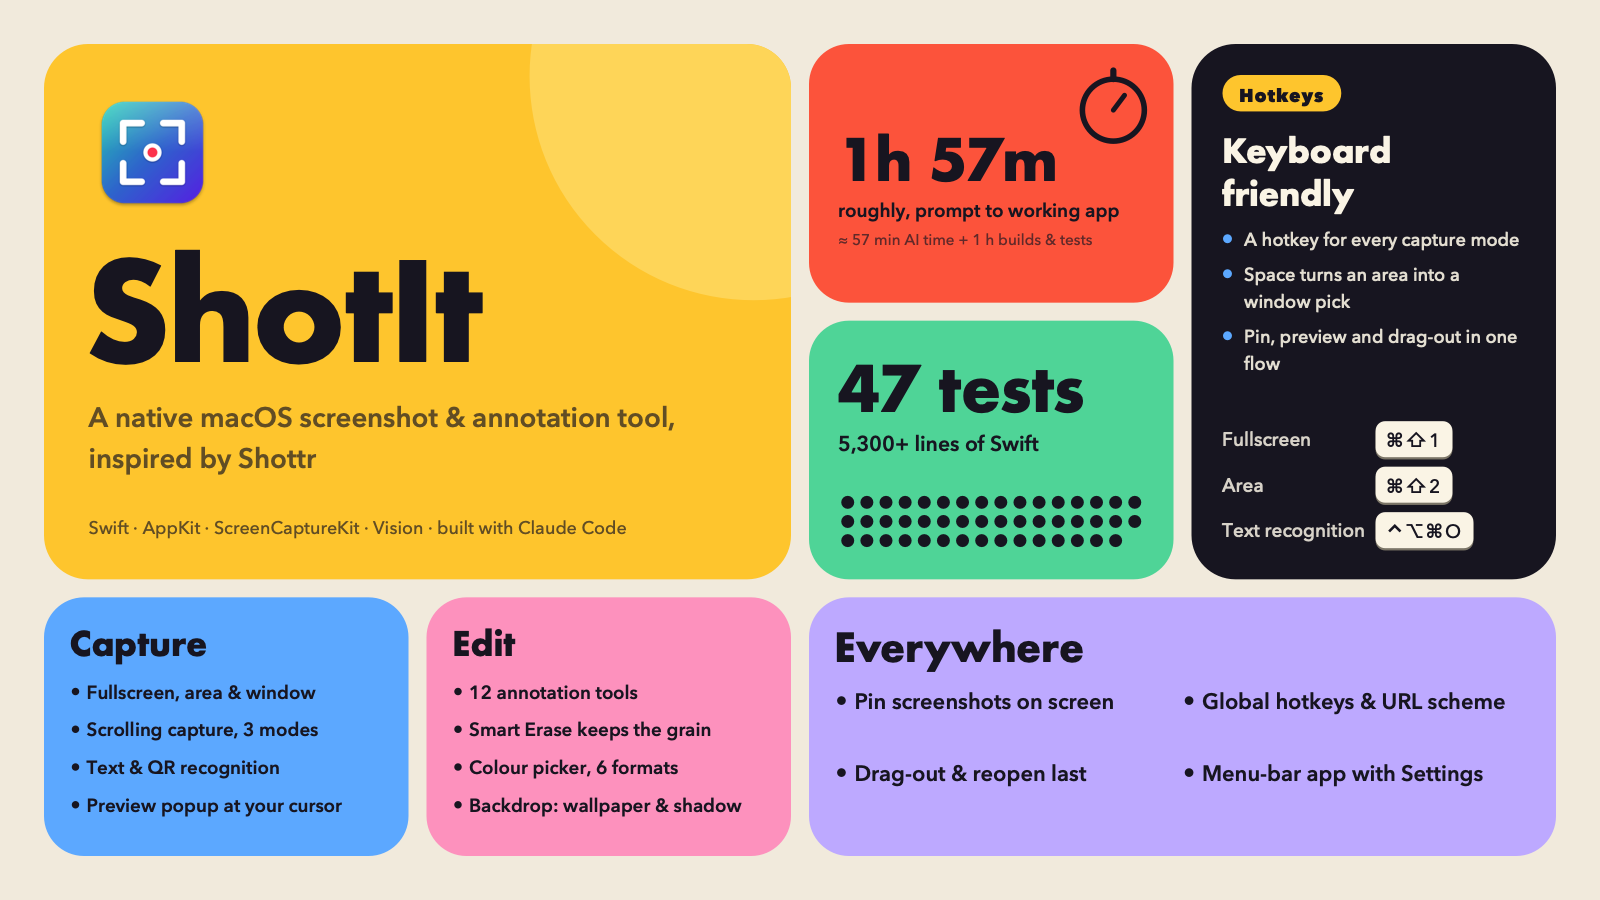
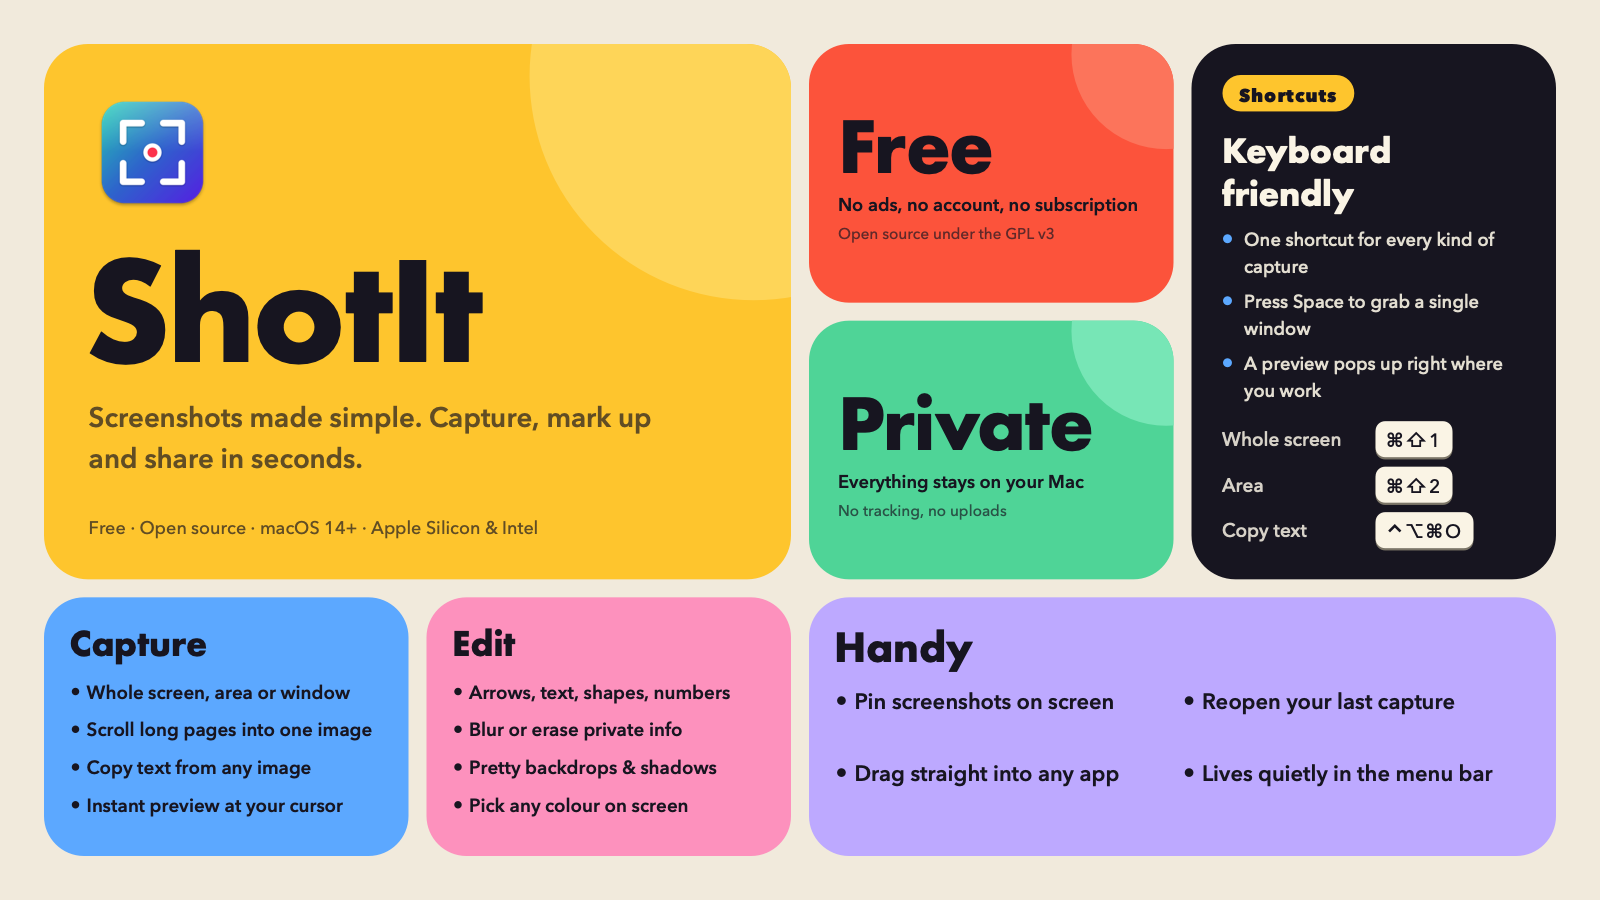
Rewrite README and promo cards for end users

diff --git a/tools/make-card.swift b/tools/make-card.swift
@@ -2,24 +2,24 @@
 // Usage: swiftc tools/make-card.swift -o build/make-card && build/make-card promo Sources/ShotIt/Assets.xcassets/AppIcon.appiconset/icon_512x512@2x.png
 import AppKit
 
-// Edit the content here (the numbers come from /cost and the repo).
-let duration = "1h 57m"
-let durationNote = "≈ 57 min AI time + 1 h builds & tests"
-let testsCount = "47 tests"
-let linesNote = "5,300+ lines of Swift"
-let tagline = "A native macOS screenshot & annotation tool, inspired by Shottr"
-let stack = "Swift · AppKit · ScreenCaptureKit · Vision · built with Claude Code"
+// Edit the content here.
+let tagline = "Screenshots made simple. Capture, mark up and share in seconds."
+let stack = "Free · Open source · macOS 14+ · Apple Silicon & Intel"
+
+// (headline, subline, note) for the two highlight tiles.
+let freeFact = ("Free", "No ads, no account, no subscription", "Open source under the GPL v3")
+let privateFact = ("Private", "Everything stays on your Mac", "No tracking, no uploads")
 
 let keyBullets = [
-    "A hotkey for every capture mode",
-    "Space turns an area into a window pick",
-    "Pin, preview and drag-out in one flow",
+    "One shortcut for every kind of capture",
+    "Press Space to grab a single window",
+    "A preview pops up right where you work",
 ]
-let hotkeys: [(String, String)] = [("Fullscreen", "⌘⇧1"), ("Area", "⌘⇧2"), ("Text recognition", "⌃⌥⌘O")]
+let hotkeys: [(String, String)] = [("Whole screen", "⌘⇧1"), ("Area", "⌘⇧2"), ("Copy text", "⌃⌥⌘O")]
 
-let capture = ["Fullscreen, area & window", "Scrolling capture, 3 modes", "Text & QR recognition", "Preview popup at your cursor"]
-let edit = ["12 annotation tools", "Smart Erase keeps the grain", "Colour picker, 6 formats", "Backdrop: wallpaper & shadow"]
-let everywhere = ["Pin screenshots on screen", "Drag-out & reopen last", "Global hotkeys & URL scheme", "Menu-bar app with Settings"]
+let capture = ["Whole screen, area or window", "Scroll long pages into one image", "Copy text from any image", "Instant preview at your cursor"]
+let edit = ["Arrows, text, shapes, numbers", "Blur or erase private info", "Pretty backdrops & shadows", "Pick any colour on screen"]
+let everywhere = ["Pin screenshots on screen", "Drag straight into any app", "Reopen your last capture", "Lives quietly in the menu bar"]
 
 // MARK: - Palette (warm neutrals, tinted; no pure black or white)
 
@@ -97,35 +97,17 @@ func heroTile(_ r: CGRect) {
     text(stack, in: CGRect(x: r.minX + pad, y: r.maxY - pad - r.width * 0.026, width: r.width - 2 * pad, height: 60), font: body(r.width * 0.024), color: muted(on: sun))
 }
 
-func timeTile(_ r: CGRect) {
-    fillTile(r, tomato, radius: 40)
-    let pad = r.width * 0.08
-    // Stopwatch.
-    let sw = r.width * 0.17, c = CGPoint(x: r.maxX - pad - sw / 2, y: r.minY + pad + sw / 2 + 6)
-    ink.setStroke()
-    let ring = NSBezierPath(ovalIn: CGRect(x: c.x - sw / 2, y: c.y - sw / 2, width: sw, height: sw)); ring.lineWidth = sw * 0.09; ring.stroke()
-    let hand = NSBezierPath(); hand.move(to: c); hand.line(to: CGPoint(x: c.x + sw * 0.18, y: c.y - sw * 0.24)); hand.lineWidth = sw * 0.08; hand.lineCapStyle = .round; hand.stroke()
-    let knob = NSBezierPath(); knob.move(to: CGPoint(x: c.x, y: c.y - sw / 2)); knob.line(to: CGPoint(x: c.x, y: c.y - sw / 2 - sw * 0.14)); knob.lineWidth = sw * 0.1; knob.lineCapStyle = .round; knob.stroke()
-    let bigSize = r.width * 0.155
-    let h = text(duration, in: CGRect(x: r.minX + pad, y: r.minY + r.height * 0.30, width: r.width - 2 * pad, height: 200), font: display(bigSize), color: ink, kern: -bigSize * 0.02)
-    let h2 = text("roughly, prompt to working app", in: CGRect(x: r.minX + pad, y: r.minY + r.height * 0.30 + h + 2, width: r.width - 2 * pad, height: 100), font: demi(r.width * 0.052), color: ink)
-    text(durationNote, in: CGRect(x: r.minX + pad, y: r.minY + r.height * 0.30 + h + h2 + 8, width: r.width - 2 * pad, height: 100), font: body(r.width * 0.042), color: muted(on: tomato))
-}
-
-func testsTile(_ r: CGRect) {
-    fillTile(r, mint, radius: 40)
-    let pad = r.width * 0.08
-    let bigSize = r.width * 0.17
-    let h = text(testsCount, in: CGRect(x: r.minX + pad, y: r.minY + pad - 2, width: r.width - 2 * pad, height: 200), font: display(bigSize), color: ink, kern: -bigSize * 0.02)
-    text(linesNote, in: CGRect(x: r.minX + pad, y: r.minY + pad + h, width: r.width - 2 * pad, height: 100), font: demi(r.width * 0.058), color: ink)
-    // One dot per test, all passing.
-    let cols = 16, rows = 3
-    let gap = (r.width - 2 * pad) / CGFloat(cols)
-    let rad = gap * 0.34
-    let top = r.maxY - pad - CGFloat(rows) * gap + gap / 2
-    for i in 0..<47 {
-        dot(CGPoint(x: r.minX + pad + gap * (CGFloat(i % cols) + 0.5), y: top + gap * CGFloat(i / cols)), rad, ink)
+func factTile(_ r: CGRect, color: NSColor, fact: (String, String, String), circle: NSColor) {
+    fillTile(r, color, radius: 40)
+    clipToTile(r, radius: 40) {  // soft circle peeking from the corner
+        dot(CGPoint(x: r.maxX - r.width * 0.02, y: r.minY + r.height * 0.04), r.width * 0.26, circle)
     }
+    let pad = r.width * 0.08
+    let bigSize = r.width * 0.19
+    let top = r.minY + r.height * 0.22
+    let h = text(fact.0, in: CGRect(x: r.minX + pad, y: top, width: r.width - 2 * pad, height: 200), font: display(bigSize), color: ink, kern: -bigSize * 0.02)
+    let h2 = text(fact.1, in: CGRect(x: r.minX + pad, y: top + h + 2, width: r.width - 2 * pad, height: 100), font: demi(r.width * 0.05), color: ink)
+    text(fact.2, in: CGRect(x: r.minX + pad, y: top + h + h2 + 8, width: r.width - 2 * pad, height: 100), font: body(r.width * 0.042), color: muted(on: color))
 }
 
 func hotkeyTile(_ r: CGRect, wide: Bool) {
@@ -134,7 +116,7 @@ func hotkeyTile(_ r: CGRect, wide: Bool) {
     let leftW = wide ? r.width * 0.56 : r.width - 2 * pad
     // Pill.
     let pillH: CGFloat = wide ? 32 : r.width * 0.1
-    let pillText = "Hotkeys"
+    let pillText = "Shortcuts"
     let pf = heavy(pillH * 0.5)
     let pw = ceil((pillText as NSString).size(withAttributes: [.font: pf, .kern: 1]).width) + pillH * 0.9
     fillTile(CGRect(x: r.minX + pad, y: r.minY + pad, width: pw, height: pillH), sun, radius: pillH / 2)
@@ -148,12 +130,12 @@ func hotkeyTile(_ r: CGRect, wide: Bool) {
         dot(CGPoint(x: r.minX + pad + 5, y: y + bs * 0.62), 4.5, sky)
         y += text(b, in: CGRect(x: r.minX + pad + 22, y: y, width: leftW - 22, height: 300), font: body(bs), color: cream.withAlphaComponent(0.9)) + (wide ? 5 : 10)
     }
-    // Recovered hotkeys as keycaps.
+    // Default shortcuts as keycaps.
     let ks = wide ? r.height * 0.09 : r.width * 0.052
     if wide {
         var ky = r.minY + pad + 4
         let kx = r.minX + r.width * 0.62
-        text("Default hotkeys", in: CGRect(x: kx, y: ky, width: r.width * 0.34, height: 40), font: demi(ks * 0.95), color: sun)
+        text("Default shortcuts", in: CGRect(x: kx, y: ky, width: r.width * 0.34, height: 40), font: demi(ks * 0.95), color: sun)
         ky += ks * 2.1
         for (label, keys) in hotkeys {
             text(label, in: CGRect(x: kx, y: ky + ks * 0.3, width: r.width * 0.17, height: 40), font: body(ks), color: cream.withAlphaComponent(0.85))
@@ -216,22 +198,22 @@ func cell(_ c: Int, _ r: Int, _ cs: Int, _ rs: Int, margin m: CGFloat, gap g: CG
 render(name: "shotit-card-landscape.png", w: 1600, h: 900) { w, h in
     func c(_ a: Int, _ b: Int, _ cs: Int = 1, _ rs: Int = 1) -> CGRect { cell(a, b, cs, rs, margin: 44, gap: 18, cols: 4, rows: 3, w: w, h: h) }
     heroTile(c(0, 0, 2, 2))
-    timeTile(c(2, 0))
+    factTile(c(2, 0), color: tomato, fact: freeFact, circle: rgb(0xFF8A6E))
     hotkeyTile(c(3, 0, 1, 2), wide: false)
-    testsTile(c(2, 1))
+    factTile(c(2, 1), color: mint, fact: privateFact, circle: rgb(0x86E8C3))
     listTile(c(0, 2), title: "Capture", items: capture, color: sky)
     listTile(c(1, 2), title: "Edit", items: edit, color: pink)
-    listTile(c(2, 2, 2, 1), title: "Everywhere", items: everywhere, color: lilac, columns: 2)
+    listTile(c(2, 2, 2, 1), title: "Handy", items: everywhere, color: lilac, columns: 2)
 }
 
 // 1:1 (Instagram, feeds)
 render(name: "shotit-card-square.png", w: 1080, h: 1080) { w, h in
     func c(_ a: Int, _ b: Int, _ cs: Int = 1, _ rs: Int = 1) -> CGRect { cell(a, b, cs, rs, margin: 40, gap: 16, cols: 3, rows: 4, w: w, h: h) }
     heroTile(c(0, 0, 2, 2))
-    timeTile(c(2, 0))
-    testsTile(c(2, 1))
+    factTile(c(2, 0), color: tomato, fact: freeFact, circle: rgb(0xFF8A6E))
+    factTile(c(2, 1), color: mint, fact: privateFact, circle: rgb(0x86E8C3))
     hotkeyTile(c(0, 2, 3, 1), wide: true)
     listTile(c(0, 3), title: "Capture", items: capture, color: sky)
     listTile(c(1, 3), title: "Edit", items: edit, color: pink)
-    listTile(c(2, 3), title: "Everywhere", items: everywhere, color: lilac)
+    listTile(c(2, 3), title: "Handy", items: everywhere, color: lilac)
 }

diff --git a/README.md b/README.md
@@ -1,19 +1,19 @@
 <h1 align="center">ShotIt</h1>
 
 <p align="center">
-  <img src="promo/shotit-card-landscape.png" alt="ShotIt: a native macOS screenshot and annotation tool" width="820">
+  <img src="promo/shotit-card-landscape.png" alt="ShotIt: free, private screenshots for macOS" width="820">
 </p>
 
 <p align="center">
-  A fast, native macOS screenshot &amp; annotation tool that lives in your menu bar.<br>
-  Capture, annotate, blur, pin and share, without leaving the keyboard.
+  <b>Screenshots made simple.</b> Grab your screen, mark it up and share it in seconds.<br>
+  A free, private app for your Mac's menu bar.
 </p>
 
 <p align="center">
+  <a href="../../releases/latest"><img alt="Download" src="https://img.shields.io/github/v/release/s-vash/ShotIt?label=download&color=brightgreen"></a>
   <img alt="macOS 14+" src="https://img.shields.io/badge/macOS-14%2B-black?logo=apple">
-  <img alt="Apple Silicon and Intel" src="https://img.shields.io/badge/arch-arm64%20%7C%20x86__64-blue">
-  <img alt="Swift" src="https://img.shields.io/badge/Swift-AppKit%20%2B%20SwiftUI-orange?logo=swift">
-  <img alt="No third-party dependencies" src="https://img.shields.io/badge/dependencies-none-brightgreen">
+  <img alt="Apple Silicon and Intel" src="https://img.shields.io/badge/Apple%20Silicon%20%2B%20Intel-blue">
+  <img alt="Free and open source" src="https://img.shields.io/badge/free-GPL%20v3-orange">
 </p>
 
 ## Screenshots
@@ -23,19 +23,21 @@
   &nbsp;&nbsp;
   <img src="promo/screenshot-menu.png" alt="The ShotIt menu bar menu with all capture actions" width="215">
 </p>
-<p align="center"><sub>Annotate with arrows, counters, text and a magnifier (left). Every capture mode is one click or one hotkey away in the menu bar (right).</sub></p>
+<p align="center"><sub>Mark up with arrows, numbers, text and a magnifier (left). Every capture is one click or one shortcut away in the menu bar (right).</sub></p>
 
-## Highlights
+## Why you'll like it
 
-- **Capture anything:** fullscreen, area, active window or any window. While selecting an area, press **Space** to switch to picking a window, like the built-in macOS screenshot, with native rounded corners.
-- **Scrolling capture:** auto-scroll (down or up) or manual scrolling, stitched into one tall image.
-- **Smart editing:** arrows, shapes, text, numbered counters, highlighter, spotlight and magnifier. Erase repaints only the text or object and keeps the background's gradient and grain. Blur, pixelate or erase a whole area, or **text only**.
-- **Backdrop:** drop a screenshot onto your wallpaper, a gradient or an image with a soft layered shadow that follows the window's real corners.
-- **Recognize text and QR codes** from any region and copy the result.
-- **Pin to screen**, thumbnail preview with drag-out, global hotkeys and a `shotit://` URL scheme.
+- **Grab anything.** The whole screen, an area, or a single window with its native rounded corners. While selecting an area, press **Space** to switch to picking a window, just like the built-in macOS screenshot.
+- **Long pages in one image.** Scrolling capture scrolls for you (or follows you) and stitches the result into one tall picture.
+- **Mark up fast.** Arrows, boxes, text, numbered steps, highlighter, spotlight and magnifier.
+- **Hide private info.** Blur, pixelate or erase a whole area, or only the text in it. Erase repaints cleanly and keeps the background's gradient and grain.
+- **Make it look good.** Put a screenshot on your wallpaper, a gradient or an image, with a soft shadow that follows the window's real corners.
+- **Copy text from any image.** Recognize text and QR codes in any region and copy the result.
+- **Keep it handy.** Pin a screenshot on top of everything, drag a preview straight into another app, or reopen your last capture.
+- **Free and private.** No account, no ads, no tracking. Everything stays on your Mac.
 
-Default hotkeys: **⌘⇧1** fullscreen, **⌘⇧2** area, **⌃⌥⌘O** recognize text. Everything else can be bound in
-**Settings › Shortcuts**.
+Default shortcuts: **⌘⇧1** whole screen, **⌘⇧2** area, **⌃⌥⌘O** copy text from the screen. Everything else can be
+set in **Settings › Shortcuts**. If another screenshot app already uses ⌘⇧1 / ⌘⇧2, quit it or pick different keys there.
 
 ## Install
 
@@ -47,7 +49,32 @@ Default hotkeys: **⌘⇧1** fullscreen, **⌘⇧2** area, **⌃⌥⌘O** recogn
 
 Or build it yourself, below.
 
-## Build from source
+## Features
+
+| Feature | Status | Notes |
+|---|---|---|
+| Fullscreen capture | ✅ | Display under the pointer |
+| Area capture | ✅ | Frozen-screen overlay, crosshair guides, live pixel size, Shift = square, Enter = whole screen |
+| Repeat area capture | ✅ | |
+| Active window / any window | ✅ | Click a highlighted window or drag an area; native rounded corners; optional shadow. During area capture, press Space to switch to picking a window. ShotIt's own Settings/editor windows can be captured too |
+| Delayed screenshot (3 s) | ✅ | |
+| Recognize Text / QR | ✅ | Vision OCR + barcode; copies to clipboard |
+| Thumbnail preview | ✅ | Copy · Save · Edit · Pin · OCR, auto-hide, drag out to other apps |
+| Editor tools | ✅ | Erase repaints only objects/text and keeps the background's gradient and grain. Arrow A · Rectangle R · Oval O · Line L · Freehand D · Text T · Counter C · Blur/Pixelate/Erase B (each also available as Blur Text / Erase Text, which only touch detected text) · Highlighter H · Spotlight S · Magnifier M · Crop X · Select V |
+| Editor extras | ✅ | Undo/redo, move/resize handles, Shift constraints, arrow-key nudge, zoom (pinch, ⌘= ⌘- ⌘0 ⌘1), colour under cursor in 6 formats (I copies), `[` `]` size |
+| Pin to screen | ✅ | Always-on-top; scroll = resize, ⌥-scroll = opacity, double-click/Esc closes |
+| Open file / clipboard image | ✅ | Also via Finder "Open With" |
+| Settings | ✅ | After-capture actions, save folder & format, Retina downscale, Esc behaviour, launch at login, hotkey recorder with per-shortcut clear/reset |
+| URL scheme | ✅ | `shotit://grab/area?then=copy,pin` (see Settings › Advanced) |
+| Scrolling capture | ✅ | Auto-scroll (needs Accessibility), Up, and Manual modes; sticky headers/footers handled; stitched with ShotIt's own aligner. Not yet exercised against real apps |
+| Backdrop (K) | ✅ | Wallpaper (your current desktop picture, automatic — the default), Auto (colours from the screenshot), gradient, solid or image; padding, layered shadow with a Depth control that follows the window's native rounded corners, aspect ratio, grain. Applied on copy/save/pin/drag; remembered between sessions |
+| Screenshot library | ❌ | Not implemented yet |
+| S3 / cloud upload | ❌ | Not implemented yet |
+| Licensing, telemetry, updater | — | Intentionally omitted |
+
+## For developers
+
+### Build from source
 
 Requires macOS 14+, Xcode and [xcodegen](https://github.com/yonaskolb/XcodeGen) (`brew install xcodegen`).
 
@@ -64,7 +91,7 @@ install may ask for keychain access to the key: choose **Always Allow**, or run 
 Set `SIGN_IDENTITY="<name>"` to use a different certificate. A build signed this way runs on your Mac only; it is not
 a distributable binary (that needs a Developer ID certificate and notarization).
 
-## Distributing a DMG
+### Distributing a DMG
 
 ```sh
 tools/make-dmg.sh           # → dist/ShotIt-<version>.dmg (universal: Apple Silicon + Intel)
@@ -91,33 +118,7 @@ xcodebuild -project ShotIt.xcodeproj -scheme ShotIt -derivedDataPath build/Deriv
 On first capture macOS asks for **Screen & System Audio Recording** permission; grant it and relaunch.
 Auto-scrolling capture additionally needs **Accessibility**.
 
-Default hotkeys: ⌘⇧1 fullscreen, ⌘⇧2 area, ⌃⌥⌘O text recognition; the rest are unbound.
-If another screenshot app (for example Shottr) already owns ⌘⇧1 / ⌘⇧2, quit it or rebind in **Settings › Shortcuts**.
-
-## Features
-
-| Feature | Status | Notes |
-|---|---|---|
-| Fullscreen capture | ✅ | Display under the pointer |
-| Area capture | ✅ | Frozen-screen overlay, crosshair guides, live pixel size, Shift = square, Enter = whole screen |
-| Repeat area capture | ✅ | |
-| Active window / any window | ✅ | Click a highlighted window or drag an area; native rounded corners; optional shadow. During area capture, press Space to switch to picking a window. ShotIt's own Settings/editor windows can be captured too |
-| Delayed screenshot (3 s) | ✅ | |
-| Recognize Text / QR | ✅ | Vision OCR + barcode; copies to clipboard |
-| Thumbnail preview | ✅ | Copy · Save · Edit · Pin · OCR, auto-hide, drag out to other apps |
-| Editor tools | ✅ | Erase repaints only objects/text and keeps the background's gradient and grain. Arrow A · Rectangle R · Oval O · Line L · Freehand D · Text T · Counter C · Blur/Pixelate/Erase B (each also available as Blur Text / Erase Text, which only touch detected text) · Highlighter H · Spotlight S · Magnifier M · Crop X · Select V |
-| Editor extras | ✅ | Undo/redo, move/resize handles, Shift constraints, arrow-key nudge, zoom (pinch, ⌘= ⌘- ⌘0 ⌘1), colour under cursor in 6 formats (I copies), `[` `]` size |
-| Pin to screen | ✅ | Always-on-top; scroll = resize, ⌥-scroll = opacity, double-click/Esc closes |
-| Open file / clipboard image | ✅ | Also via Finder "Open With" |
-| Settings | ✅ | After-capture actions, save folder & format, Retina downscale, Esc behaviour, launch at login, hotkey recorder with per-shortcut clear/reset |
-| URL scheme | ✅ | `shotit://grab/area?then=copy,pin` (see Settings › Advanced) |
-| Scrolling capture | ✅ | Auto-scroll (needs Accessibility), Up, and Manual modes; sticky headers/footers handled; stitched with ShotIt's own aligner. Not yet exercised against real apps |
-| Backdrop (K) | ✅ | Wallpaper (your current desktop picture, automatic — the default), Auto (colours from the screenshot), gradient, solid or image; padding, layered shadow with a Depth control that follows the window's native rounded corners, aspect ratio, grain. Applied on copy/save/pin/drag; remembered between sessions |
-| Screenshot library | ❌ | Not implemented yet |
-| S3 / cloud upload | ❌ | Not implemented yet |
-| Licensing, telemetry, updater | — | Intentionally omitted |
-
-## Layout
+### Layout
 
 ```
 Sources/ShotIt/
